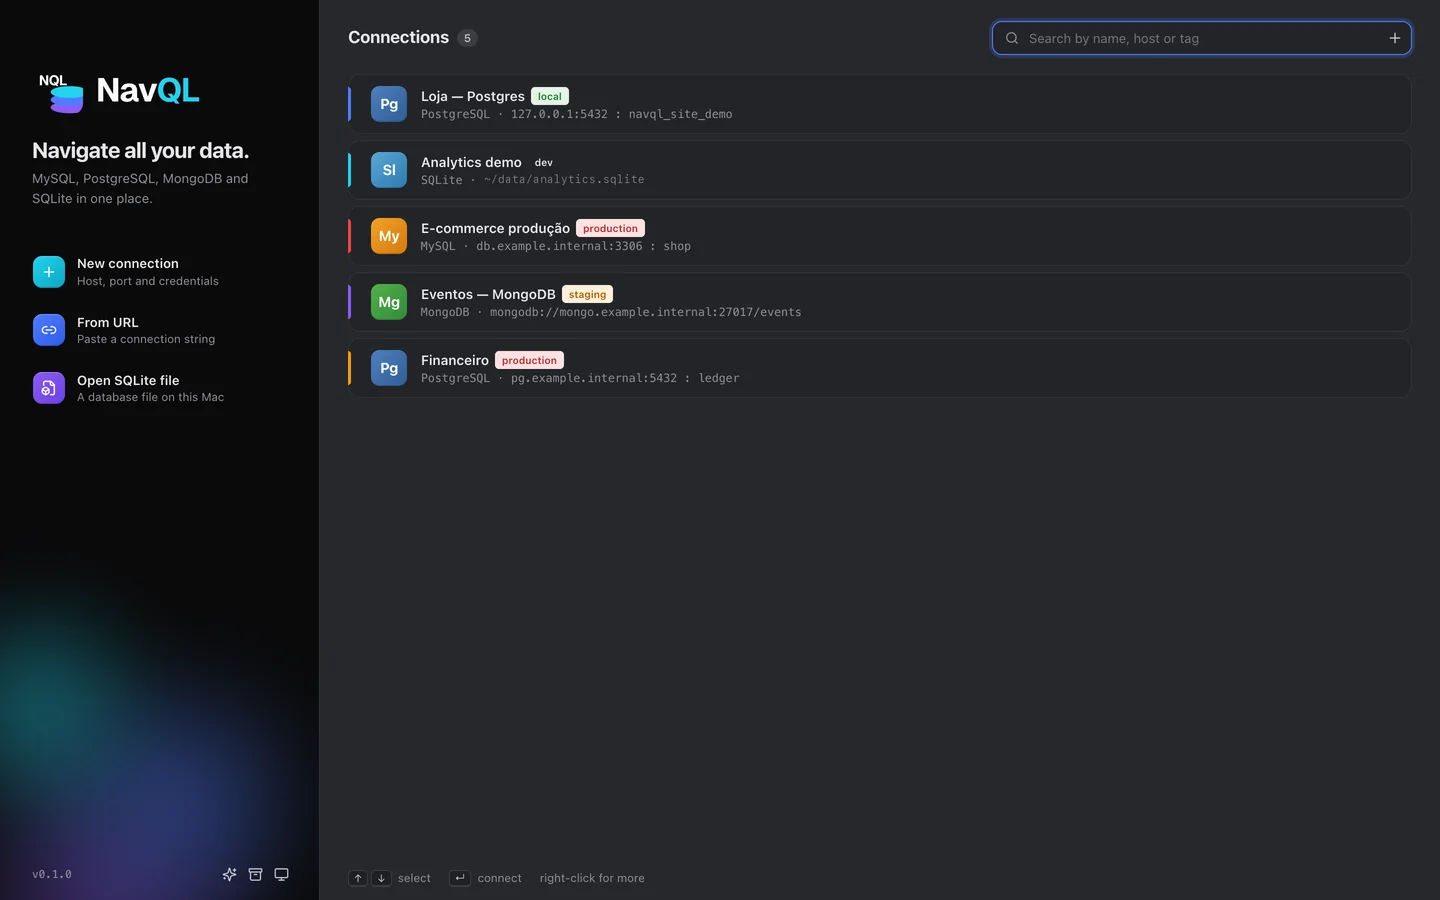
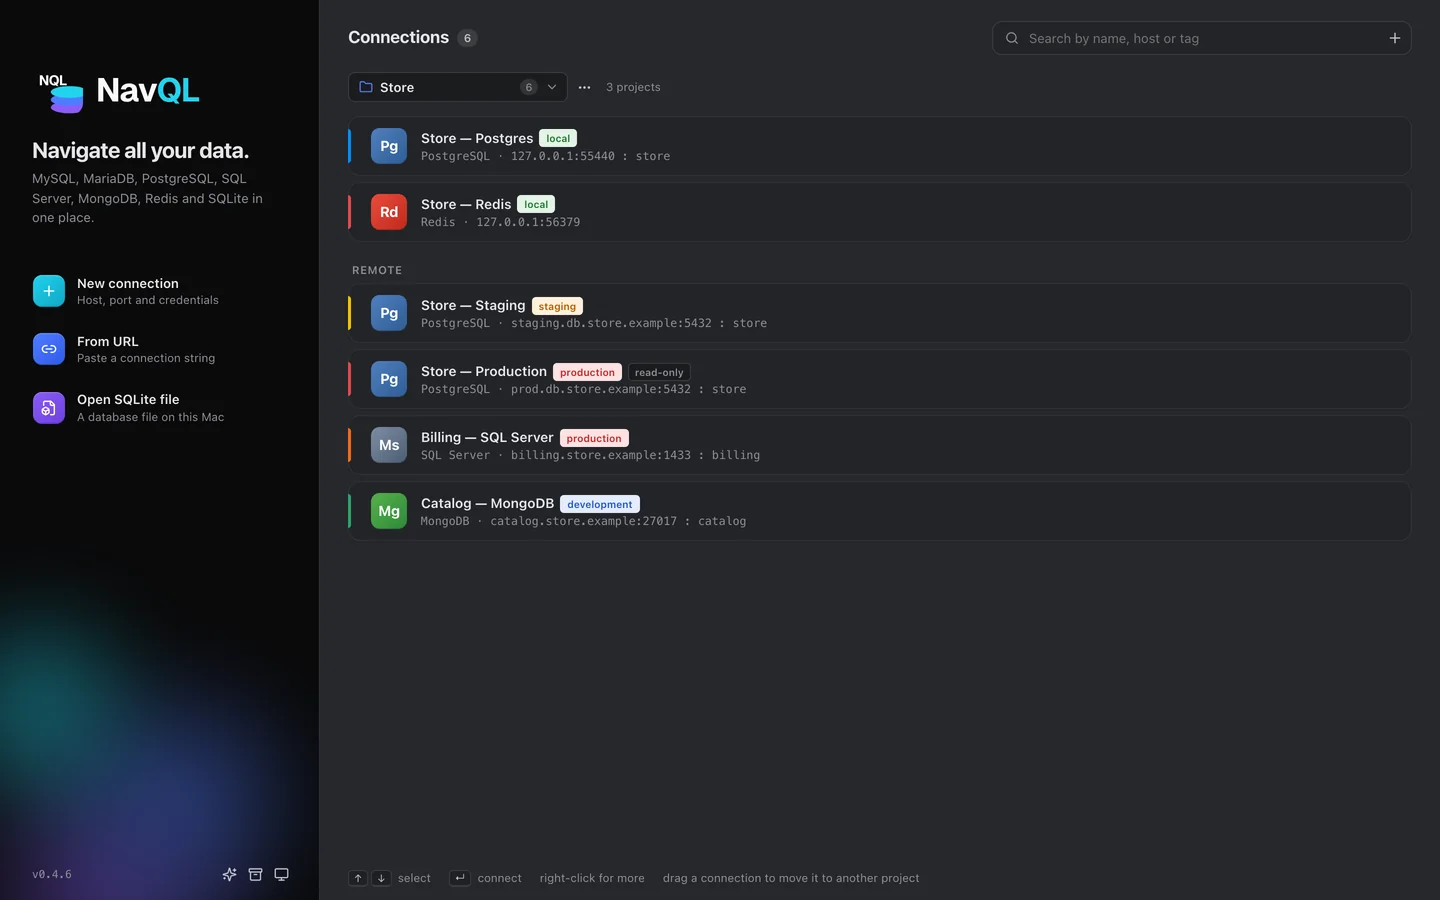
New screenshots from NavQL 0.4.6, Redis tab in the tour, scrollable tabs on phones

diff --git a/index.html b/index.html
@@ -273,8 +273,9 @@
     .feature:last-child { border-bottom: 0; grid-column: auto; }
     .dbs ul { gap: 20px; }
     .window-bar { height: 28px; }
-    .tabs { width: 100%; flex-wrap: nowrap; gap: 2px; }
-    .tabs button { flex: 1; justify-content: center; padding: 0 6px; font-size: 13px; gap: 6px; }
+    .tabs { width: 100%; flex-wrap: nowrap; gap: 2px; overflow-x: auto; scrollbar-width: none; }
+    .tabs::-webkit-scrollbar { display: none; }
+    .tabs button { flex: none; justify-content: center; padding: 0 12px; font-size: 13px; gap: 6px; }
     .tabs button i { display: none; }
     .code { font-size: 13px; padding: 20px; }
   }
@@ -378,12 +379,13 @@
         <button role="tab" id="t-query" aria-controls="p-query" aria-selected="false" tabindex="-1"><i style="background:var(--violeta)"></i>Queries</button>
         <button role="tab" id="t-struct" aria-controls="p-struct" aria-selected="false" tabindex="-1"><i style="background:#a1a1aa"></i>Structure</button>
         <button role="tab" id="t-diagram" aria-controls="p-diagram" aria-selected="false" tabindex="-1"><i style="background:var(--ciano)"></i>Diagram</button>
+        <button role="tab" id="t-redis" aria-controls="p-redis" aria-selected="false" tabindex="-1"><i style="background:var(--violeta)"></i>Redis</button>
       </div>
 
       <div class="panel" id="p-conn" role="tabpanel" aria-labelledby="t-conn">
         <div class="tour-grid">
           <div class="window"><div class="window-bar"><i></i><i></i><i></i></div>
-            <img src="assets/shots/connections-1440.webp" srcset="assets/shots/connections-1440.webp 1440w, assets/shots/connections.webp 2880w" sizes="(max-width: 960px) 100vw, 800px" alt="NavQL home screen with five connections: PostgreSQL, SQLite, MySQL and MongoDB, each with its own color and tag" loading="lazy" width="2880" height="1800"></div>
+            <img src="assets/shots/connections-1440.webp" srcset="assets/shots/connections-1440.webp 1440w, assets/shots/connections.webp 2880w" sizes="(max-width: 960px) 100vw, 800px" alt="NavQL connection list for the Store project: PostgreSQL, Redis, SQL Server and MongoDB connections, each with its own color and tag" loading="lazy" width="2880" height="1800"></div>
           <div class="tour-copy">
             <h3>Every connection at a glance</h3>
             <p>Each connection gets its own color and tag, so you never mistake production for development.</p>
@@ -402,7 +404,7 @@
       <div class="panel" id="p-data" role="tabpanel" aria-labelledby="t-data" hidden>
         <div class="tour-grid">
           <div class="window"><div class="window-bar"><i></i><i></i><i></i></div>
-            <img src="assets/shots/table-1440.webp" srcset="assets/shots/table-1440.webp 1440w, assets/shots/table.webp 2880w" sizes="(max-width: 960px) 100vw, 800px" alt="Data grid of the customers table with 1,200 rows" loading="lazy" width="2880" height="1800"></div>
+            <img src="assets/shots/value-1440.webp" srcset="assets/shots/value-1440.webp 1440w, assets/shots/value.webp 2880w" sizes="(max-width: 960px) 100vw, 800px" alt="Data grid of the orders table with the JSON of a cell shown as a tree in the side panel" loading="lazy" width="2880" height="1800"></div>
           <div class="tour-copy">
             <h3>Data in a fast grid</h3>
             <p>Open a table and scroll through thousands of rows without a stutter. Edit cells, add rows and apply filters.</p>
@@ -438,7 +440,7 @@
       <div class="panel" id="p-struct" role="tabpanel" aria-labelledby="t-struct" hidden>
         <div class="tour-grid">
           <div class="window"><div class="window-bar"><i></i><i></i><i></i></div>
-            <img src="assets/shots/structure-1440.webp" srcset="assets/shots/structure-1440.webp 1440w, assets/shots/structure.webp 2880w" sizes="(max-width: 960px) 100vw, 800px" alt="Structure of the customers table: columns, types, indexes and foreign keys" loading="lazy" width="2880" height="1800"></div>
+            <img src="assets/shots/structure-1440.webp" srcset="assets/shots/structure-1440.webp 1440w, assets/shots/structure.webp 2880w" sizes="(max-width: 960px) 100vw, 800px" alt="Structure of the orders table: columns, types, indexes and foreign keys" loading="lazy" width="2880" height="1800"></div>
           <div class="tour-copy">
             <h3>Structure, demystified</h3>
             <p>Columns, types, indexes and foreign keys for every table, plus the full DDL.</p>
@@ -464,6 +466,22 @@
               <li>Drag tables around; NavQL remembers where</li>
               <li>Zoom, minimap and a notation legend</li>
               <li>Export as PNG or SVG</li>
+            </ul>
+          </div>
+        </div>
+      </div>
+    <div class="panel" id="p-redis" role="tabpanel" aria-labelledby="t-redis" hidden>
+        <div class="tour-grid">
+          <div class="window"><div class="window-bar"><i></i><i></i><i></i></div>
+            <img src="assets/shots/redis-1440.webp" srcset="assets/shots/redis-1440.webp 1440w, assets/shots/redis.webp 2880w" sizes="(max-width: 960px) 100vw, 800px" alt="Redis keys with the session prefix in a grid: key, type, TTL, size and value" loading="lazy" width="2880" height="1800"></div>
+          <div class="tour-copy">
+            <h3>Redis, in the same window</h3>
+            <p>Keys are grouped by prefix and open in the same grid as your tables, next to your SQL connections.</p>
+            <ul>
+              <li>Type, TTL, size and value for every key</li>
+              <li>Edit values and TTLs, applied in one <span class="mono">MULTI</span></li>
+              <li>A redis-cli style command editor</li>
+              <li>Read-only mode that blocks write commands</li>
             </ul>
           </div>
         </div>
